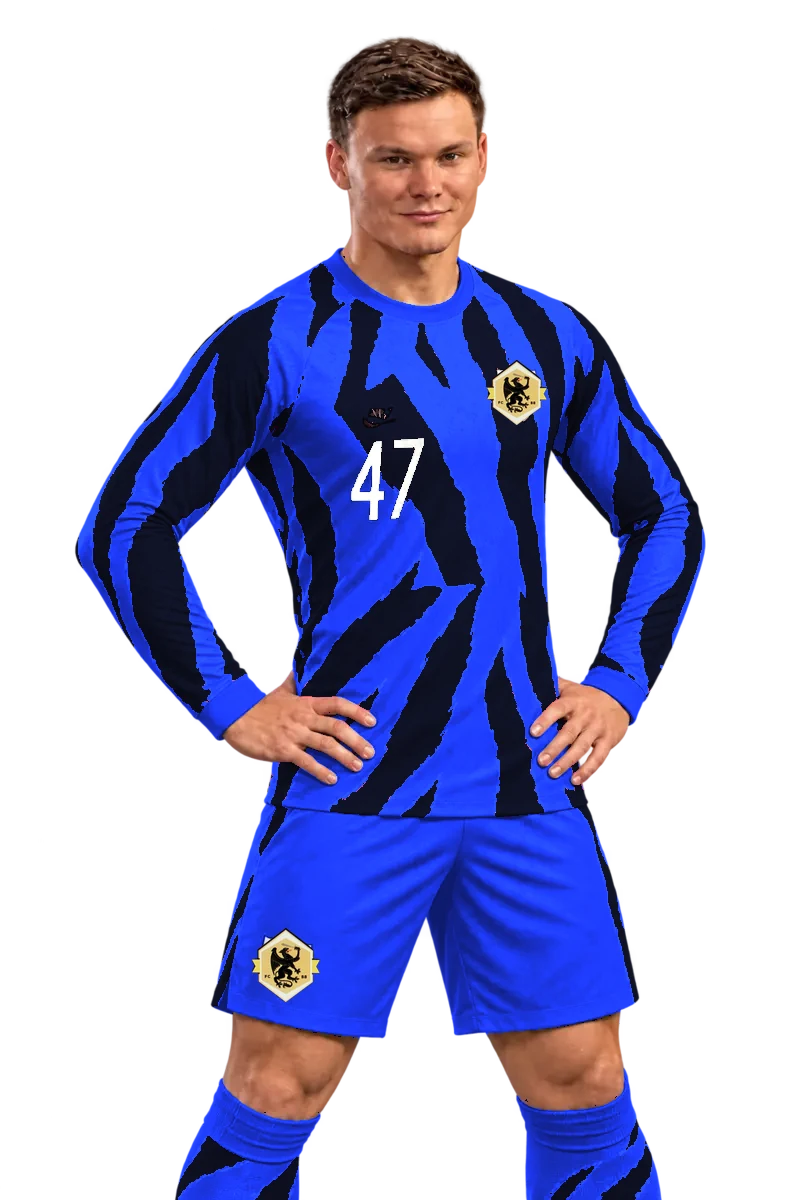
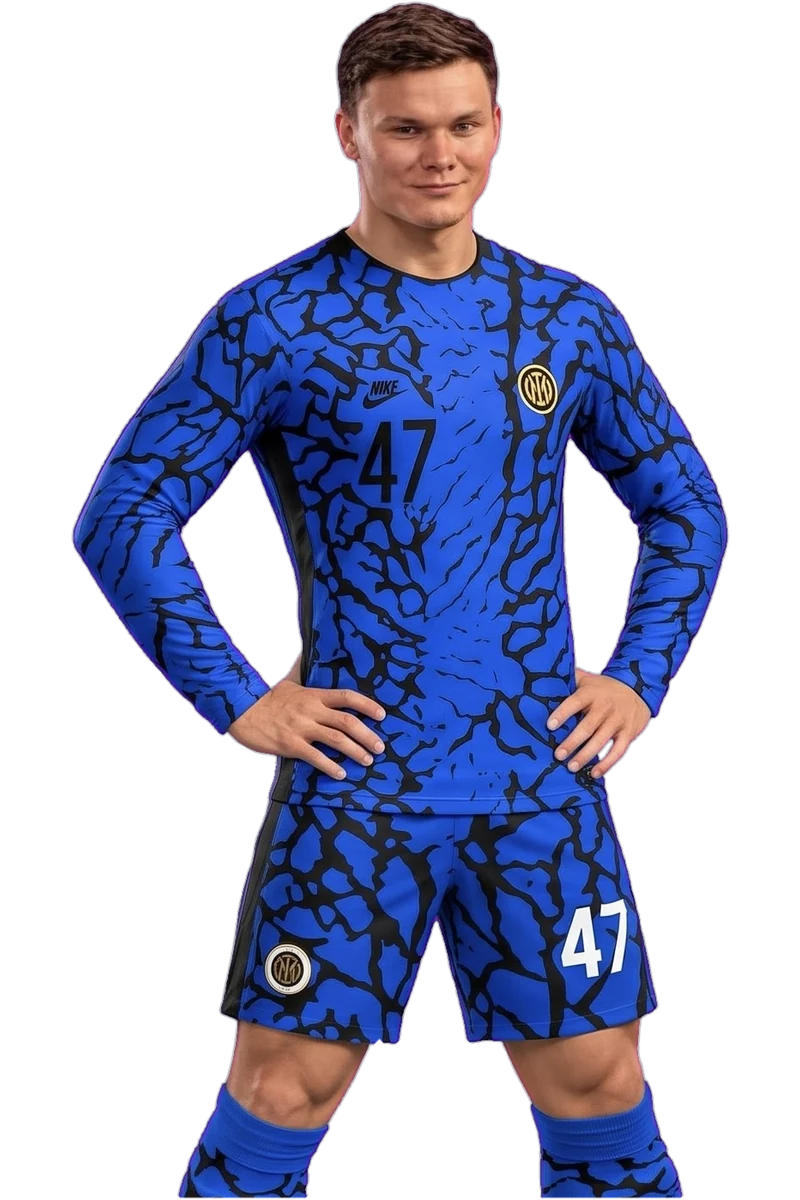
Replace the squad portraits with clean in-game cutouts
New Magician, Banks and Lamin images from the player's own renders, with
the magenta backdrop keyed out (magenta-only hue gate so the kit's purple
shadows stay, despilled edges, silhouette from a background-removal model).
Lamin's is now a real render rather than a recoloured old portrait.

Banks no longer needs the oversized volley framing, and on phones the card
stats sit above the portraits so the averages aren't hidden. Image URLs get
?v=2 so browsers fetch the new files.

Claude-Session: https://claude.ai/code/session_01HMFviz661wWaPA8HnUs72b

diff --git a/index.html b/index.html
@@ -9,7 +9,7 @@
     <link rel="preconnect" href="https://fonts.gstatic.com" crossorigin />
     <link href="https://fonts.googleapis.com/css2?family=Archivo+Black&amp;family=DM+Mono:wght@400;500&amp;family=Inter:wght@400;500;600;700;800;900&amp;display=swap" rel="stylesheet" />
     <link rel="icon" type="image/png" href="assets/wacky-wombats-crest-64.png" />
-    <link rel="stylesheet" href="styles.css?v=29" />
+    <link rel="stylesheet" href="styles.css?v=30" />
   </head>
   <body>
     <div class="noise" aria-hidden="true"></div>
@@ -54,7 +54,7 @@
           <div class="squad-grid">
             <article class="squad-card magician-player" data-player="Magician" role="button" tabindex="0" aria-haspopup="dialog" aria-label="Open Little Magician's player dossier">
               <div class="squad-card-art">
-                <img src="assets/little-magician-signing.webp" alt="Little Magician standing in the Wacky Wombats kit" />
+                <img src="assets/little-magician-signing.webp?v=2" alt="Little Magician standing in the Wacky Wombats kit" />
               </div>
               <div class="squad-card-body">
                 <div class="player-status"><span>NEW IDENTITY · FOUNDING SIGNING</span><i>CONFIRMED</i></div>
@@ -72,7 +72,7 @@
 
             <article class="squad-card banks-player" data-player="Banks" role="button" tabindex="0" aria-haspopup="dialog" aria-label="Open Robin Banks's player dossier">
               <div class="squad-card-art">
-                <img src="assets/robin-banks-signing.webp" alt="Robin Banks striking a volley in the Wacky Wombats kit" />
+                <img src="assets/robin-banks-signing.webp?v=2" alt="Robin Banks standing in the Wacky Wombats kit" />
               </div>
               <div class="squad-card-body">
                 <div class="player-status"><span>NEW IDENTITY · FOUNDING SIGNING</span><i>CONFIRMED</i></div>
@@ -90,7 +90,7 @@
 
             <article class="squad-card returning-player" data-player="Lamin" role="button" tabindex="0" aria-haspopup="dialog" aria-label="Open Lamin Jawara's player dossier">
               <div class="squad-card-art">
-                <img src="assets/lamin-jawara-wombats.webp" alt="Lamin Jawara standing confidently in the Wacky Wombats kit" />
+                <img src="assets/lamin-jawara-wombats.webp?v=2" alt="Lamin Jawara standing confidently in the Wacky Wombats kit" />
               </div>
               <div class="squad-card-body">
                 <div class="player-status"><span>FREE TRANSFER · FROM BASKET CARRIERS</span><i>CONFIRMED</i></div>
@@ -471,6 +471,6 @@
       </div>
     </dialog>
 
-    <script src="app.js?v=22" defer></script>
+    <script src="app.js?v=23" defer></script>
   </body>
 </html>

diff --git a/styles.css b/styles.css
@@ -1079,8 +1079,6 @@ a { color: inherit; }
   right: 5px;
   height: 244px;
 }
-/* Banks's card shot is a wide volley, so it gets more height to read at card size. */
-.banks-player .squad-card-art img { right: -26px; height: 318px; }
 .door-art {
   display: grid;
   place-items: center;
@@ -1213,7 +1211,6 @@ a { color: inherit; }
   .squad-card-art { min-height: 285px; }
   .squad-card-art img { right: -5px; bottom: 0; width: auto; height: 275px; max-width: none; opacity: .82; }
   .returning-player .squad-card-art img { right: -2px; height: 262px; }
-  .banks-player .squad-card-art img { right: -30px; height: 300px; }
   .door-art::before { right: -8px; width: 105px; height: 155px; }
   .door-art span { margin-left: 22px; font-size: 3.8rem; }
   .pending-player { min-height: 178px; display: block; }
@@ -1362,4 +1359,7 @@ a { color: inherit; }
 .transfer-wire-trey::after { content: "88"; }
 @media (max-width:720px) {
   .crest-stamp { width: 88px; margin-bottom: 22px; }
+  /* Stats stay readable where the portrait overlaps them on narrow cards. */
+  .squad-card-body { position: relative; z-index: 6; }
+  .player-stat-slots b { text-shadow: 0 1px 6px rgba(0,0,0,.85); }
 }

diff --git a/app.js b/app.js
@@ -11,9 +11,9 @@ const LEGACY_ARCHIVE = "data/archive/basket-carriers-fc27.json";
 
 // Everyone starts from zero at Wacky Wombats, so no season offsets apply.
 const PLAYER_META = {
-  Magician: { name: "LITTLE MAGICIAN", number: "88", image: "assets/little-magician-signing.webp", position: "CM / CAM" },
-  Banks: { name: "ROBIN BANKS", number: "32", image: "assets/robin-banks-signing.webp", position: "ST" },
-  Lamin: { name: "LAMIN JAWARA", number: "47", image: "assets/lamin-jawara-wombats.webp", position: "CM / CDM" },
+  Magician: { name: "LITTLE MAGICIAN", number: "88", image: "assets/little-magician-signing.webp?v=2", position: "CM / CAM" },
+  Banks: { name: "ROBIN BANKS", number: "32", image: "assets/robin-banks-signing.webp?v=2", position: "ST" },
+  Lamin: { name: "LAMIN JAWARA", number: "47", image: "assets/lamin-jawara-wombats.webp?v=2", position: "CM / CDM" },
 };
 
 const PLAYER_ORDER = ["Magician", "Banks", "Lamin"];

diff --git a/README.md b/README.md
@@ -12,7 +12,7 @@ The club ID is `1991204`, found by name after the first match on 29 October 2026
 
 Basket Carriers is retired. Its FC27 archive is frozen in `data/archive/basket-carriers-fc27.json` (with its old config alongside), and the collector never writes to it. That file's `former_players` holds the frozen careers of Wormax, Trey and Basket Carriers-era Lamin, which the dashboard shows in the museum and on the honours wall. The main page shows the Wacky Wombats squad from `data/matches.json` and ignores that file until it holds the new club.
 
-Lamin's Wacky Wombats image is his Basket Carriers portrait recoloured into the new kit, with the new crest. Replace `assets/lamin-jawara-wombats.webp` with an in-game screenshot whenever one is available.
+Player images in `assets/` are 800×1200 transparent cutouts, bottom-aligned. When replacing one, keep that format and bump its `?v=` query in `index.html` and `app.js` so browsers fetch the new file.
 
 ## Player changes
 
